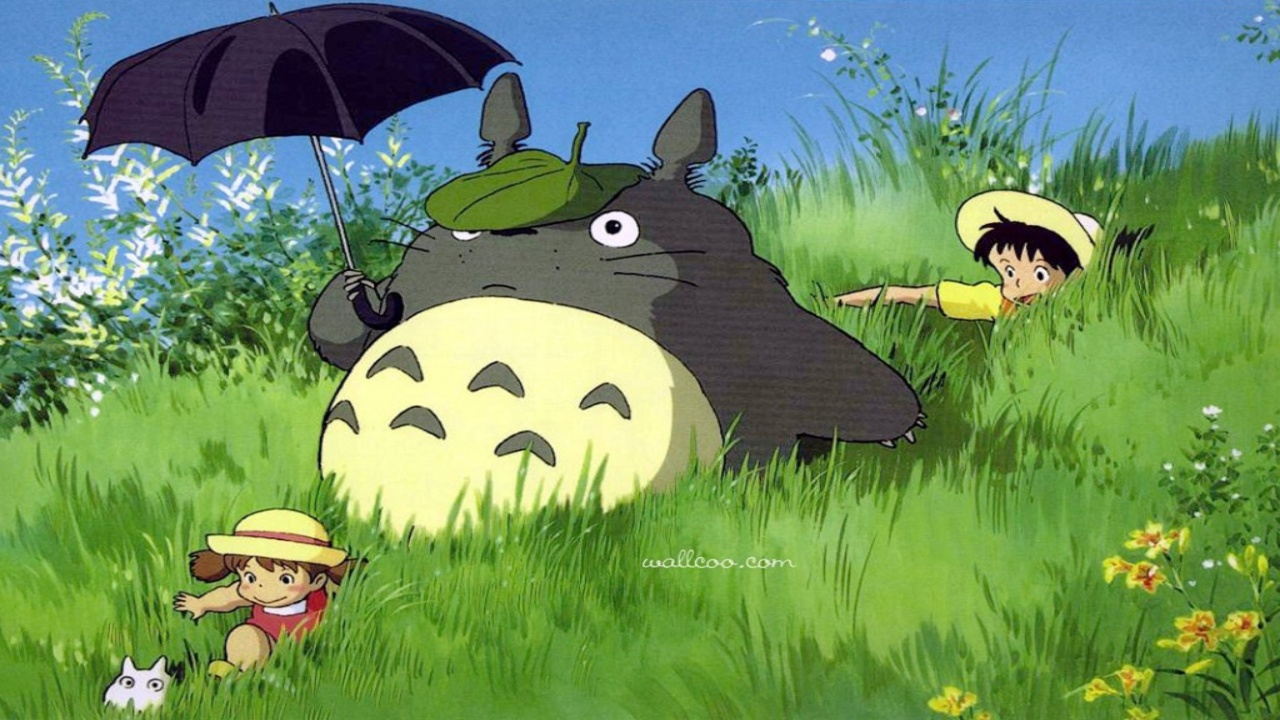
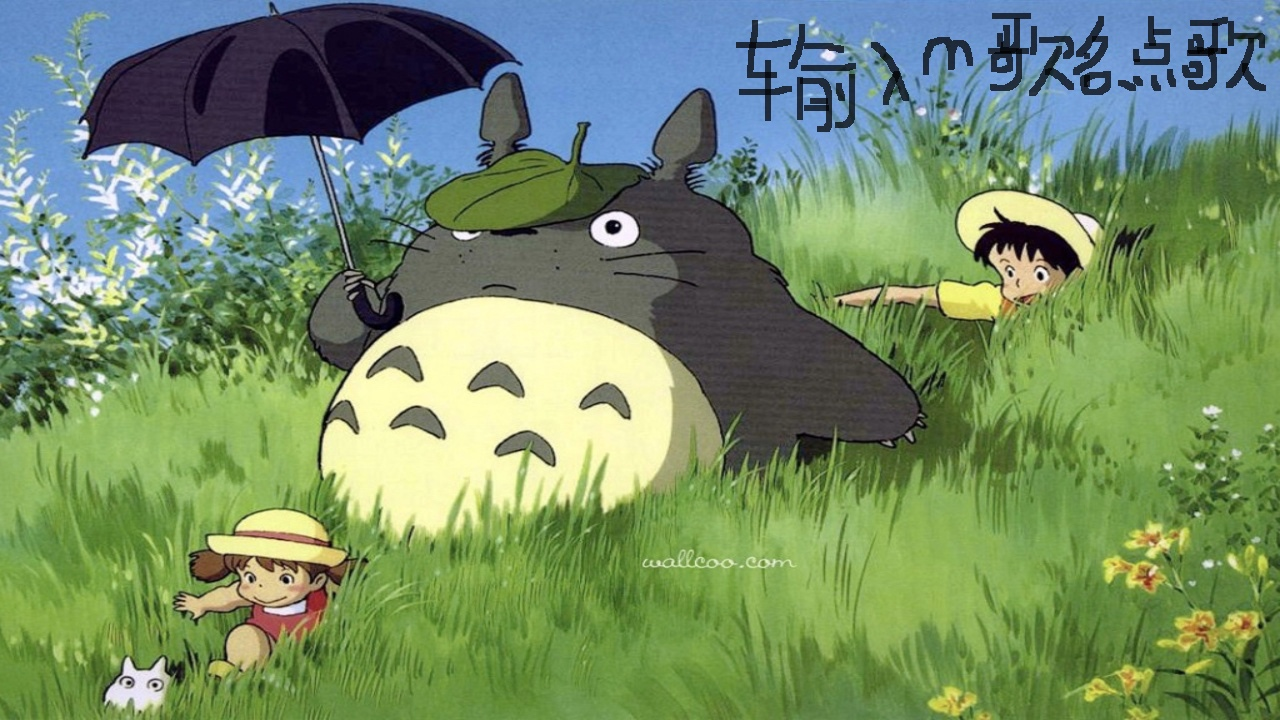
文件管理，修正了下载文件失败的bug

diff --git a/get_stream.py b/get_stream.py
@@ -22,6 +22,7 @@ lock = threading.Lock()
 # flag 0 待下载，-1 下载失败，1 下载成功或者已经存在
 music_choose_list = []
 music_info_dict = {}
+play_name = ''
 with open('history.txt', 'r') as f:
     music_info_dict = json.loads(f.read().rstrip('\n'))
 
@@ -40,7 +41,7 @@ def download_music(word):
         music_info = json.loads(search_result.strip('callback()[]'))['data']['song']['list'][0]
         # 获取该word下搜索得到的歌名和歌手名，如果该文件已经存在，那么直接指向对应文件就好
         songname = music_info['songname']
-        singername = music_info['singer']['name']
+        singername = music_info['singer'][0]['name']
         path = f'music/{songname}_{singername}.mp3'
         if os.path.exists(path):
             lock.acquire()
@@ -89,7 +90,7 @@ def download_music(word):
 
 # 这一部分是处理弹幕输入的部分，应该持续运行，保证可以接收到正确的弹幕并对相关信息进行处理
 def barrage_decision():
-    patten = re.compile(u'mc:(\S*)')
+    patten = re.compile(u'm(\S*)')
     while True:
         barrage = input()
         print(barrage)
@@ -157,6 +158,12 @@ def generate_background():
                        str(tmp_music_info_dict[k]['num'])
                 draw.text((text_x, text_y + list_count * gap), text, font = font, fill = '#ff0000')
                 list_count = list_count + 1
+        # 加入正在播放歌曲
+        text_x = 400
+        text_y = 200
+        text = f'正在播放: {play_name}'
+        draw.text((text_x, text_y), text, font = font, fill = '#ff0000')
+        # 保存图片
         image_show.save('image/background.jpg')
         print('保存图片成功')
         sys.stdout.flush()
@@ -188,6 +195,8 @@ def generate_audio():
         cmd = f'mplayer {audio_name}'
         print(cmd)
         sys.stdout.flush()
+        global play_name
+        play_name = audio_name
         res = subprocess.getstatusoutput(cmd)
 
 p_barrage = threading.Thread(target = barrage_decision)
